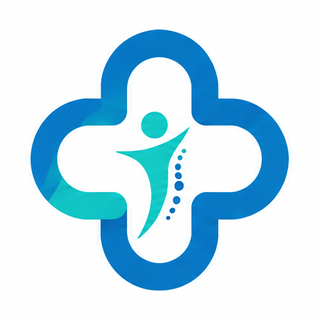
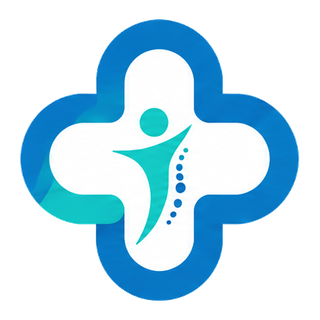
fix(cecar): el isotipo pierde el cuadrado blanco y respira sobre cualquier fondo
Se veia pegoteado, como calcomania encima de la barra. Eran DOS causas:

1. El PNG no tenia transparencia (recortado de cecar-logo.png, que trae fondo
   blanco opaco). Regenerado con flood fill desde las cuatro esquinas — NO un
   umbral global, porque el blanco de ADENTRO de la cruz es parte del diseno y
   un umbral la habria dejado hueca.
2. Encima tenia una placa blanca por CSS (background #fff + radius + padding)
   en el nav de la v2, el pie de la v1 y el panel del hero. Fuera las tres.

De paso se corrigio el recorte: cortaba al 37% del ancho y se colaba un pedazo
de la C de CECAR pegado al simbolo. Ahora el corte se calcula buscando el canal
vacio real entre simbolo y wordmark.

Verificado sobre los tres fondos donde vive y a 24 px.

Changed region(s): [[0.0625, 0.0625, 0.9375, 0.9375], [0.3438, 0.4688, 0.4688, 0.5938]]

diff --git a/templates/cecar.html b/templates/cecar.html
@@ -433,7 +433,8 @@ h2 em, .display em { font-style: italic; color: var(--brand-teal-ink); font-weig
 .footer-grid { display: grid; grid-template-columns: 1.5fr 1fr 1fr 1fr; gap: 40px; }
 .footer h4 { font-family: var(--font-display); font-size: 12px; letter-spacing: .15em; text-transform: uppercase; color: #fff; margin-bottom: 18px; }
 .footer-brand .name { display: flex; align-items: center; gap: 11px; margin-bottom: 16px; }
-.footer-brand .name img { width: 42px; height: 42px; background: #fff; border-radius: 11px; padding: 4px; }
+/* Sin placa blanca: el isotipo tiene transparencia y respira sobre el navy. */
+.footer-brand .name img { width: 42px; height: 42px; }
 .footer-brand-text { font-family: var(--font-display); font-weight: 800; font-size: 19px; color: #fff; line-height: 1.05; display: flex; flex-direction: column; }
 .footer-brand-sub { font-size: 9.5px; font-weight: 700; letter-spacing: .13em; text-transform: uppercase; color: var(--brand-teal); }
 .footer-brand p { line-height: 1.65; max-width: 42ch; }

diff --git a/templates/cecar-v2.html b/templates/cecar-v2.html
@@ -100,7 +100,9 @@ h2.mega{font-size:clamp(34px,6vw,68px)}
 .nav-wrap{position:sticky;top:0;z-index:100;background:rgba(8,12,16,.86);backdrop-filter:blur(14px);border-bottom:1px solid var(--line)}
 .nav{display:flex;align-items:center;gap:26px;height:74px}
 .brand{display:flex;align-items:center;gap:11px;flex:none}
-.brand img{width:40px;height:40px;background:#fff;border-radius:10px;padding:3px}
+/* El isotipo va suelto sobre el fondo: con placa blanca se veia pegoteado,
+   como una calcomania encima de la barra. El PNG ya trae transparencia real. */
+.brand img{width:40px;height:40px}
 .brand b{font-family:var(--fd);font-weight:900;font-size:20px;letter-spacing:.01em;line-height:1;display:block}
 .brand .sub2{font-size:8.5px;font-weight:800;letter-spacing:.16em;text-transform:uppercase;color:var(--acc);display:block;margin-top:3px}
 .nav-links{display:flex;gap:26px;margin-left:auto;font-family:var(--fd);font-weight:700;font-size:12.5px;letter-spacing:.1em;text-transform:uppercase;color:var(--txt2)}
